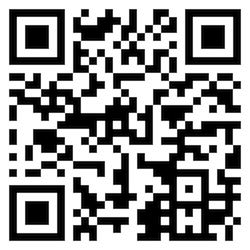
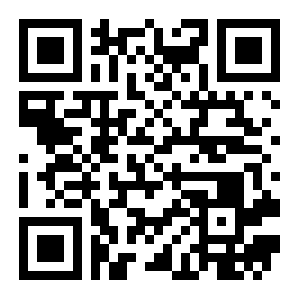
add info on Conference App

diff --git a/_pages/participants.md b/_pages/participants.md
@@ -269,16 +269,11 @@ In case you have a talk or poster at the main conference, or you plan to give a 
 
 
 
-<!--
-## Conference App
+### Conference App
 
-There's a companion app for the conference published on the <a href="https://guidebook.com/" target="_blank">Guidebook</a> platform. If you already have Guidebook on your device, click on "Find Guides" and search for "XXXXXXXXXXXXX" or scan the QR code below. If you do not, click <a href="https://guidebook.com/g/xxxxxxxxxxxxxx/" target="_blank">here</a> to get set up.
+There's a companion app for the conference published on the <a href="https://guidebook.com/" target="_blank">Guidebook</a> platform. If you already have Guidebook on your device, click on "Find Guides" and search for "EMNLP-IJCNLP 2019" or scan the QR code below. If you do not, click <a href="https://guidebook.com/g/emnlp-ijcnlp2019/" target="_blank">here</a> to get set up.
 
 ![image-center](/assets/images/guideqr.png){: .align-center}
-
-There's also a web version of the guide available <a href="http://guidebook.com/guide/xxxxxxxxx" target="_blank">here</a>, although that's not as full-featured as the app version.
--->
-
 
 
 

diff --git a/_pages/home.md b/_pages/home.md
@@ -35,6 +35,11 @@ For questions on submissions, first check the <a href="./calls/submission">FAQs<
 
 
 <h2>News</h2>
+
+**October 24, 2019**.
+The conference app is now live! If you already have the Guidebook app on your device, click on "Find Guides" and search for "EMNLP-IJCNLP 2019" or scan the [QR code](./participants/#conference-app). Otherwise, click <a href="https://guidebook.com/g/emnlp-ijcnlp2019/" target="_blank">here</a>.
+
+
 **October 23, 2019**.
 We now provide an [interactive schedule](./program/ischedule/) of the whole conference where you can create and print your own customized schedule.
 
